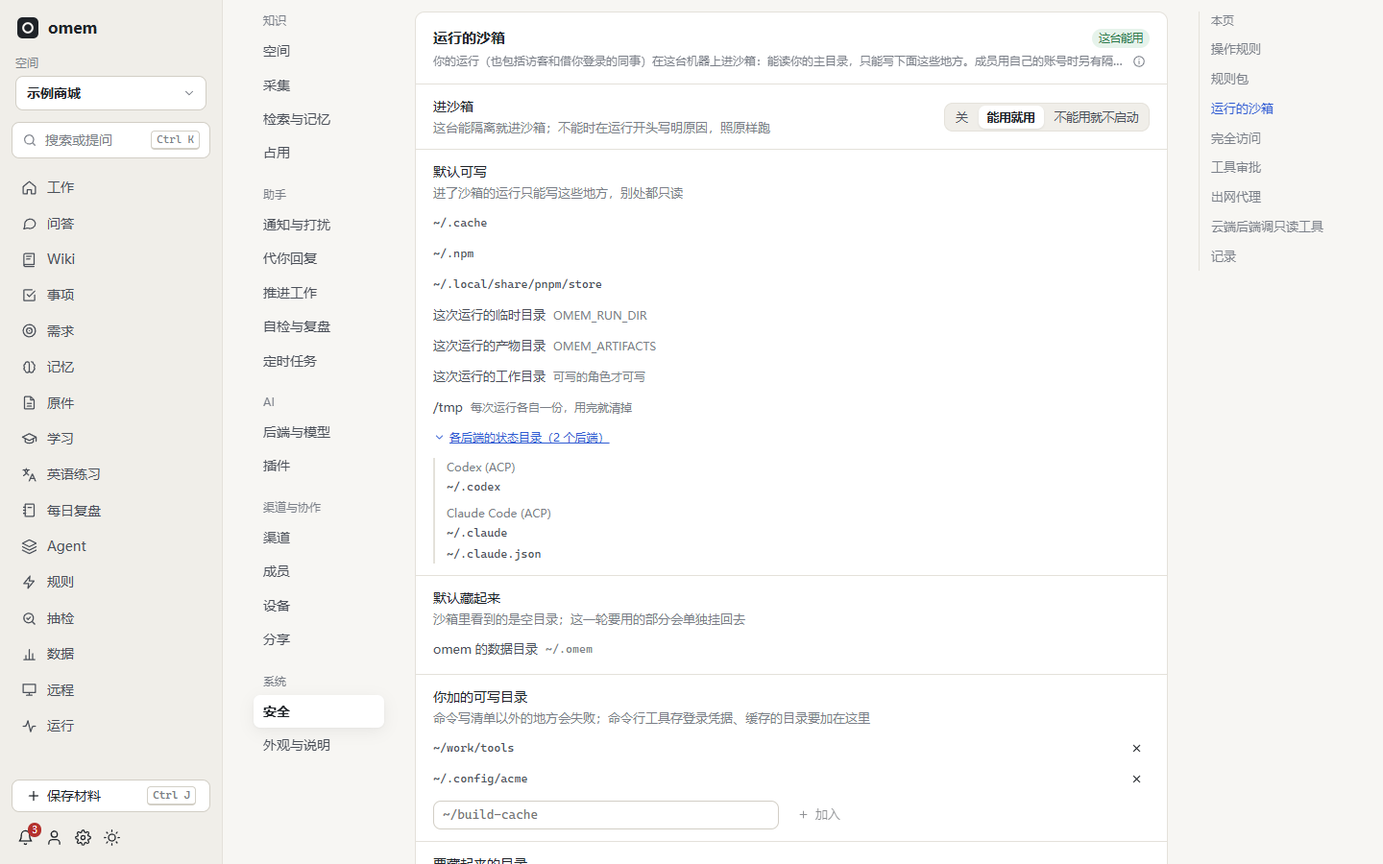
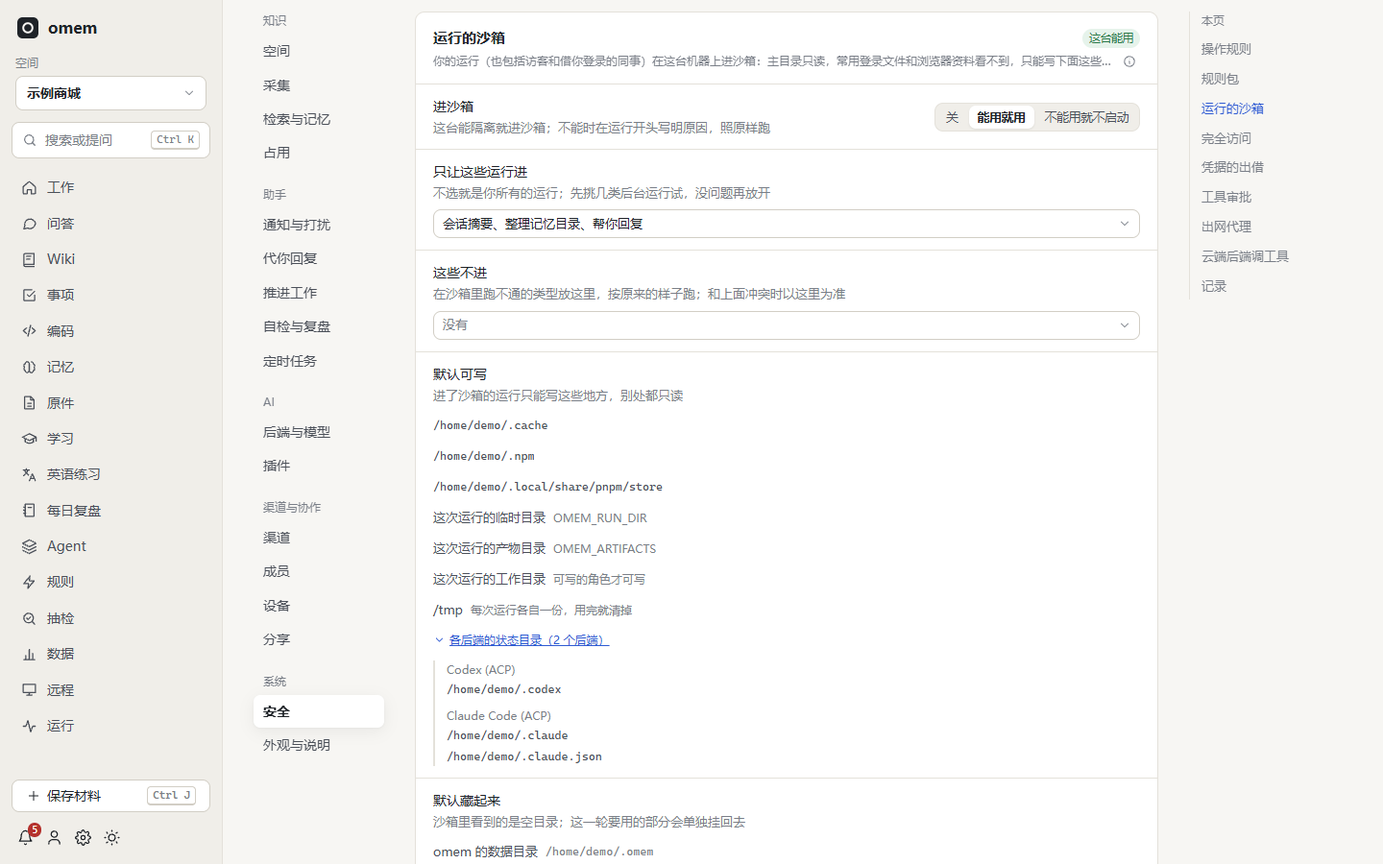
卡片预览画出 Markdown 表格；沙箱设置页跟上执行器
- card-preview 把 Markdown 表格换成每列 125px、每页 5 行的表格组件画，和客户端一样
  在手机上要横着滑（卡片搭建工具的手机视图核对过）；fold 里的明细写法写进 owner.md。
- 运行的沙箱卡：按运行类型挑进不进（includeKinds / excludeKinds），默认藏起来的分清
  数据目录和插件命令的登录，能展开看常用登录文件清单；帮助文字和操作规则卡的说明
  改成执行器之后的说法。重拍 settings-sandbox。
- canonical 在 Windows 上按盘符路径拆不存在的路径，演示数据给成员登录不再退出。

diff --git a/web/src/components/SandboxSettings.vue b/web/src/components/SandboxSettings.vue
@@ -3,7 +3,8 @@ import { computed, onMounted, ref } from "vue";
 import { get, put } from "../api";
 import { toast } from "../store";
 import { confirmDialog } from "../lib/dialog";
-import { FULL_ACCESS, MODES, defaultLabel, fullAccessNote, grantLinks, sandboxBody, splitDefaults, tilde, type FullAccessMode, type SandboxMode, type SandboxSettings, type SandboxStatus } from "../lib/sandbox";
+import { FULL_ACCESS, MODES, defaultLabel, fullAccessNote, grantLinks, hiddenLabel, kindOptions, sandboxBody, splitDefaults, tilde, type FullAccessMode, type SandboxMode, type SandboxSettings, type SandboxStatus } from "../lib/sandbox";
+import { runKindLabel } from "../store";
 import { settingsContext } from "../views/settings/ctx";
 import Icon from "./Icon.vue";
 import MonoLine from "./MonoLine.vue";
@@ -12,12 +13,14 @@ import SetCard from "./SetCard.vue";
 import SetRow from "./SetRow.vue";
 import Skeleton from "./Skeleton.vue";
 import UiSegmented from "./UiSegmented.vue";
+import UiSelect from "./UiSelect.vue";
 
 /**
  * 设置 → 安全 → 运行的沙箱 and 完全访问 (src/agents/own-run.ts `sandboxStatus`, own-sandbox.ts `runAccess`,
  * docs/v2/agent-accounts.md “本人的运行进沙箱”): whether the owner's runs on this machine go into a
- * sandbox that lets them read the home directory and write only the listed places, which directories
- * are added or hidden, and the one switch for turning off the backends' own sandbox and approvals.
+ * sandbox (the home directory read-only with login files hidden, writes only to the listed places, commands
+ * that need a login run by the executor outside it), which kinds of run go in, which directories are added
+ * or hidden, and the one switch for turning off the backends' own sandbox and approvals.
  * Only the owner; the whole setting is saved at once (`PUT /api/security/sandbox`). A server without it
  * (404) shows nothing.
  */
@@ -26,6 +29,7 @@ const status = ref<SandboxStatus | null>(null);
 const missing = ref(false);
 const error = ref("");
 const showState = ref(false);
+const showLogins = ref(false);
 const ctx = settingsContext();
 const backendName = (id: string) => ctx?.profiles.value.find((p) => p.id === id)?.name ?? id;
 
@@ -74,13 +78,17 @@ const grants = computed(() => grantLinks(status.value?.fullAccessGrants));
 const data = computed(() => status.value?.defaults.hidden[0] ?? null);
 const split = computed(() => (status.value ? splitDefaults(status.value) : { common: [], backends: [] }));
 const off = computed(() => status.value?.mode === "off");
+/** The login files and browser profiles hidden from runs: the owner's own list when set, else the built-in one. */
+const logins = computed(() => status.value?.loginPaths ?? status.value?.defaults.loginPaths ?? []);
+const kinds = computed(() => kindOptions(runKindLabel, [...(status.value?.includeKinds ?? []), ...(status.value?.excludeKinds ?? [])]));
+const kindNames = (list: string[]) => list.map((k) => runKindLabel[k] ?? k).join("、");
 const note = computed(() => (status.value ? fullAccessNote(status.value) : ""));
 </script>
 
 <template>
   <template v-if="!missing">
     <SetCard id="set-sandbox" title="运行的沙箱" :keys="KEYS">
-      <template #help>你的运行（也包括访客和借你登录的同事）在这台机器上进沙箱：能读你的主目录，只能写下面这些地方。成员用自己的账号时另有隔离；云端和借别的设备跑的不在这里。</template>
+      <template #help>你的运行（也包括访客和借你登录的同事）在这台机器上进沙箱：主目录只读，常用登录文件和浏览器资料看不到，只能写下面这些地方。要用登录的命令（操作规则保护的、凭据插件声明的、git 推拉、飞书命令行）在沙箱外的执行器里用这个身份的登录跑，运行拿不到登录文件本身。成员用自己的账号时另有隔离；云端和借别的设备跑的不在这里。</template>
       <template v-if="status" #aside>
         <span class="badge" :class="status.support.ok ? 'ok' : 'warn'" :title="status.support.version ? `bubblewrap ${status.support.version}` : status.support.reason ?? ''">{{ status.support.ok ? "这台能用" : "这台用不了" }}</span>
       </template>
@@ -90,6 +98,12 @@ const note = computed(() => (status.value ? fullAccessNote(status.value) : ""));
         <p v-if="!status.support.ok" class="set-pad small warn-text">{{ status.support.reason || "这台机器不能隔离运行" }}。这里选的模式先存着，在这台不生效。</p>
         <SetRow label="进沙箱" :hint="MODES.find((m) => m.value === status!.mode)?.hint">
           <UiSegmented :model-value="status.mode" size="sm" aria-label="本人的运行进不进沙箱" :options="MODES.map((m) => ({ value: m.value, label: m.label, title: m.hint }))" @change="(v) => save({ mode: v as SandboxMode }, `沙箱：${MODES.find((m) => m.value === v)?.label}`)" />
+        </SetRow>
+        <SetRow label="只让这些运行进" hint="不选就是你所有的运行；先挑几类后台运行试，没问题再放开" block :off="off">
+          <UiSelect :model-value="status.includeKinds ?? []" multiple size="sm" width="100%" aria-label="只让这些运行进沙箱" placeholder="全部" :options="kinds" @change="(v) => save({ includeKinds: v as string[] }, (v as string[]).length ? `只让这些进：${kindNames(v as string[])}` : '你所有的运行都进')" />
+        </SetRow>
+        <SetRow label="这些不进" hint="在沙箱里跑不通的类型放这里，按原来的样子跑；和上面冲突时以这里为准" block :off="off">
+          <UiSelect :model-value="status.excludeKinds ?? []" multiple size="sm" width="100%" aria-label="这些运行不进沙箱" placeholder="没有" :options="kinds" @change="(v) => save({ excludeKinds: v as string[] }, (v as string[]).length ? `这些不进：${kindNames(v as string[])}` : '不再排除哪一类')" />
         </SetRow>
         <SetRow label="默认可写" hint="进了沙箱的运行只能写这些地方，别处都只读" block :off="off">
           <ul class="sbx-list" aria-label="默认可写">
@@ -116,12 +130,20 @@ const note = computed(() => (status.value ? fullAccessNote(status.value) : ""));
         <SetRow label="默认藏起来" hint="沙箱里看到的是空目录；这一轮要用的部分会单独挂回去" block :off="off">
           <ul class="sbx-list" aria-label="默认藏起来">
             <li v-for="p in status.defaults.hidden" :key="p" class="sbx-line">
-              <span class="sbx-named">omem 的数据目录</span>
+              <span class="sbx-named">{{ hiddenLabel(p, data) }}</span>
               <span class="sbx-aside mono" :title="p">{{ tilde(p, home) }}</span>
             </li>
           </ul>
+          <div v-if="logins.length" class="sbx-fold">
+            <button type="button" class="lnk small" :aria-expanded="showLogins" aria-controls="sbx-logins" @click="showLogins = !showLogins">
+              <Icon :name="showLogins ? 'down' : 'right'" :size="13" />常用登录文件和浏览器资料（{{ logins.length }} 处{{ status.loginPaths ? "，按你配置的清单" : "" }}）
+            </button>
+            <div v-if="showLogins" id="sbx-logins" class="sbx-state">
+              <MonoLine v-for="p in logins" :key="p" :text="tilde(p, home)" />
+            </div>
+          </div>
         </SetRow>
-        <SetRow label="你加的可写目录" hint="命令写清单以外的地方会失败；命令行工具存登录凭据、缓存的目录要加在这里" block :off="off">
+        <SetRow label="你加的可写目录" hint="命令写清单以外的地方会失败；构建输出、工具缓存这类目录加在这里。命令行的登录由执行器用，不用加" block :off="off">
           <SandboxPaths :items="status.writable" :home="home" label="你加的可写目录" placeholder="~/build-cache" :save="listSaver('writable')" />
         </SetRow>
         <SetRow label="要藏起来的目录" hint="你主目录里不想让运行读到的，比如 ~/.ssh" block :off="off">

diff --git a/scripts/card-preview.ts b/scripts/card-preview.ts
@@ -11,11 +11,13 @@
  * fictional. CHROMIUM=path picks the browser, SCHEME=dark the dark theme.
  *
  * Where it differs from the Feishu client (checked 2026-11-27 against the card builder): an icon on a
- * Markdown element is not drawn; a Markdown table shows as raw `|` text (the client draws it); a column
- * set's grey background is left out; dropdowns are empty boxes; images show only as placeholders (no
- * img_key lookup); folds, forms and buttons are drawn but do nothing. HTML entities in Markdown (omem writes `:` as `&#58;`) are decoded
- * here, as the client does. The card builder (open.larkoffice.com/cardkit, “导入卡片”) is the closer
- * check when someone is signed in.
+ * Markdown element is not drawn; a column set's grey background is left out; dropdowns are empty boxes;
+ * images show only as placeholders (no img_key lookup); folds, forms and buttons are drawn but do
+ * nothing. Two things are put right before drawing, as the client shows them: HTML entities in Markdown
+ * (omem writes `:` as `&#58;`) are decoded, and a Markdown table, which this renderer leaves as raw `|`
+ * text, is drawn as a table component five rows a page, its columns as wide as the client's (on a
+ * phone the table scrolls sideways there; here the columns past the edge are cut off).
+ * The card builder (open.larkoffice.com/cardkit, “导入卡片”) is the closer check when someone is signed in.
  */
 import { mkdirSync, mkdtempSync, readFileSync, rmSync, writeFileSync } from "node:fs";
 import { tmpdir } from "node:os";
@@ -125,9 +127,57 @@ async function samples(): Promise<Record<string, Card>> {
   }
 }
 
-/** The client shows HTML entities in card Markdown as their characters (cardText writes `:` as `&#58;`). */
+/**
+ * A Markdown element's pipe tables as table components: the client draws a table in card Markdown
+ * (JSON 2.0: a grey header row, five data rows a page, at most four tables in one element) but the
+ * renderer here shows the raw `|` text. Null when the element has none.
+ */
+function withTables(el: Card): Card[] | null {
+  const lines = String(el.content).split("\n");
+  const cells = (l: string) => l.trim().replace(/^\|/, "").replace(/\|$/, "").split("|").map((c) => c.trim());
+  const rule = (l?: string) => !!l && /^\s*\|?\s*:?-{3,}:?\s*(\|\s*:?-{3,}:?\s*)*\|?\s*$/.test(l);
+  const { content: _, ...rest } = el;
+  const parts: Card[] = [];
+  let text: string[] = [];
+  const flush = () => {
+    if (text.join("").trim()) parts.push({ ...rest, content: text.join("\n").replace(/^\n+|\n+$/g, "") });
+    text = [];
+  };
+  for (let i = 0; i < lines.length; i++) {
+    if (!(lines[i].trim().startsWith("|") && rule(lines[i + 1]))) {
+      text.push(lines[i]);
+      continue;
+    }
+    const head = cells(lines[i]);
+    const rows: string[][] = [];
+    for (i += 2; i < lines.length && lines[i].trim().startsWith("|"); i++) rows.push(cells(lines[i]));
+    i--;
+    flush();
+    parts.push({
+      tag: "table",
+      page_size: 5,
+      row_height: "auto",
+      header_style: { text_align: "left", background_style: "grey", bold: true },
+      // The client gives a Markdown table's column about 125px and scrolls the table sideways on a phone.
+      columns: head.map((h, n) => ({ name: `c${n}`, display_name: h, data_type: "lark_md", width: "125px" })),
+      rows: rows.map((r) => Object.fromEntries(head.map((_, n) => [`c${n}`, r[n] ?? ""]))),
+    });
+  }
+  if (!parts.some((p) => p.tag === "table")) return null;
+  flush();
+  return parts;
+}
+
+/**
+ * The card as the client shows it, where the renderer here differs: HTML entities in Markdown are
+ * their characters (cardText writes `:` as `&#58;`), and Markdown tables are tables (`withTables`).
+ */
 function decoded(card: unknown): unknown {
-  if (Array.isArray(card)) return card.map(decoded);
+  if (Array.isArray(card))
+    return card.flatMap((x) => {
+      const d = decoded(x) as Card;
+      return d && typeof d === "object" && d.tag === "markdown" ? (withTables(d) ?? [d]) : [d];
+    });
   if (!card || typeof card !== "object") return card;
   const o = Object.fromEntries(Object.entries(card).map(([k, v]) => [k, decoded(v)]));
   if (o.tag === "markdown" && typeof o.content === "string") o.content = o.content.replace(/&#(\d+);/g, (_, n) => String.fromCodePoint(Number(n)));

diff --git a/web/src/lib/sandbox.ts b/web/src/lib/sandbox.ts
@@ -19,11 +19,20 @@ export type SandboxStatus = {
   support: { ok: boolean; bwrap?: string; version?: string; reason?: string };
   /** Each local backend profile and the directories (and files) it keeps its state in. */
   backends: { id: string; state: string[] }[];
-  defaults: { exampleBackend?: string; writable: string[]; hidden: string[] };
+  /**
+   * `hidden`: the data directory first, then the command state the trusted credential plugins declare.
+   * `loginPaths`: the built-in list of login files and browser profiles hidden from the Agent.
+   */
+  defaults: { exampleBackend?: string; writable: string[]; hidden: string[]; loginPaths?: string[] };
+  /** The owner's own list of login paths, replacing the built-in one (`[]`: none). */
+  loginPaths?: string[];
+  /** Only these run kinds go in (empty or absent: all); `excludeKinds` wins. */
+  includeKinds?: string[];
+  excludeKinds?: string[];
   visibility?: string;
   warning?: string;
 };
-export type SandboxSettings = { mode: SandboxMode; writable: string[]; hidden: string[]; fullAccess: FullAccessMode };
+export type SandboxSettings = { mode: SandboxMode; writable: string[]; hidden: string[]; fullAccess: FullAccessMode; includeKinds?: string[]; excludeKinds?: string[] };
 
 export const MODES: { value: SandboxMode; label: string; hint: string }[] = [
   { value: "off", label: "关", hint: "运行照原样在这台机器上跑，不进沙箱" },
@@ -112,4 +121,13 @@ export function fullAccessNote(s: Pick<SandboxStatus, "mode" | "fullAccess" | "s
   if (s.mode === "off") return "现在没有运行会进沙箱，这一档等于按角色。";
   if (!s.support.ok) return "这台机器隔离不了，没有运行会进沙箱，这一档在这台等于按角色。";
   return "";
+}
+
+/** A line of the default hidden list in the owner's words: the data directory, or a plugin command's login. */
+export const hiddenLabel = (path: string, data: string | null) => (path === data ? "omem 的数据目录" : "插件命令的登录");
+
+/** The run kinds to pick from: those the page has a name for, then any saved kind it has none for. */
+export function kindOptions(labels: Record<string, string>, saved: string[]): { value: string; label: string; hint?: string }[] {
+  const named = Object.entries(labels).map(([value, label]) => ({ value, label, hint: value }));
+  return [...named, ...saved.filter((k) => !Object.hasOwn(labels, k)).map((k) => ({ value: k, label: k }))];
 }

diff --git a/web/src/components/OperationRulesSettings.vue b/web/src/components/OperationRulesSettings.vue
@@ -269,7 +269,7 @@ function onPacksChanged() {
   <div class="stack">
     <SetCard id="set-operation-rules" title="操作规则">
       <template #help>
-        从上到下，第一条命中的规则生效；都没命中就放行。“放行”用来在更宽的规则前开个口子。命令规则能拦住 shell、脚本、Python 的 subprocess、Node 的 spawn 这类按名字找命令的调用；拦不住用绝对路径调用、Agent 自己改了 PATH、直接调命令背后的接口。它防的是误操作，不是有意绕开的 Agent：真正要保护的凭据不要放在 Agent 能读到的地方。保存后，之后新启动的 Agent 进程按新规则走。
+        从上到下，第一条命中的规则生效；都没命中就放行。“放行”用来在更宽的规则前开个口子。命令规则能拦住 shell、脚本、Python 的 subprocess、Node 的 spawn 这类按名字找命令的调用。没进沙箱的运行，用绝对路径调用、自己改 PATH、直接调命令背后的接口都拦不住，这时它只防误操作。进了<RouterLink to="/settings?card=sandbox">沙箱</RouterLink>的运行（Linux）里，受保护的命令在已知的安装位置都盖上了垫片，绝对路径和改过的 PATH 也落到垫片上；要用登录的命令在沙箱外的执行器里跑，运行读不到登录文件。沙箱里仍管不到的是运行自己装或复制进来的程序，它们只能用沙箱里看得到的文件和网络。保存后，之后新启动的 Agent 进程按新规则走。
         <template v-if="scopeChoices.platform === 'win32'">这台是 Windows：Node 不带 shell 的 execFile、Python 列表形式的 subprocess 只找 .exe，真正的命令是 .exe 时这两种拦不住。</template>
       </template>
       <template #aside><button class="btn ghost sm" :disabled="!drafts" @click="add"><Icon name="plus" :size="14" />规则</button></template>

diff --git a/scripts/doc-screens.ts b/scripts/doc-screens.ts
@@ -2251,10 +2251,11 @@ const shots: { name: string; path: string; width?: number; dark?: boolean; space
   { name: "settings-sandbox", path: "/settings?card=sandbox", before: async (p) => {
     const home = "/home/demo", data = `${home}/.omem`;
     await p.route("**/api/security/sandbox", (route) => route.request().method() !== "GET" ? route.fallback() : route.fulfill({ json: {
-      mode: "prefer", writable: [`${home}/work/tools`, `${home}/.config/acme`], hidden: [`${home}/.ssh`], fullAccess: "sandboxed",
+      mode: "prefer", writable: [`${home}/work/tools`, `${home}/.config/acme`], hidden: [`${home}/private`], fullAccess: "sandboxed", includeKinds: ["thread-summary", "memory-organize", "first-look"],
       support: { ok: true, bwrap: "/usr/bin/bwrap", version: "0.9.0" },
       backends: [{ id: "codex", state: [`${home}/.codex`] }, { id: "claude", state: [`${home}/.claude`, `${home}/.claude.json`] }],
-      defaults: { exampleBackend: "codex", writable: [`${home}/.codex`, `${home}/.cache`, `${home}/.npm`, `${home}/.local/share/pnpm/store`, `${data}/runs/example/scratch`, `${data}/artifacts/inbox/example`, `${data}/workspaces/example/1`, "/tmp"], hidden: [data] },
+      defaults: { exampleBackend: "codex", writable: [`${home}/.codex`, `${home}/.cache`, `${home}/.npm`, `${home}/.local/share/pnpm/store`, `${data}/runs/example/scratch`, `${data}/artifacts/inbox/example`, `${data}/workspaces/example/1`, "/tmp"], hidden: [data, `${home}/.config/acme-cli`],
+        loginPaths: ["~/.ssh", "~/.git-credentials", "~/.config/gh", "~/.lark-cli", "~/.aws", "~/.kube", "~/.docker/config.json", "~/.config/google-chrome", "~/.mozilla/firefox", "~/.npmrc", "/run/docker.sock"] },
     } }));
   }, prepare: async (p) => {
     await p.locator("#set-sandbox .sbx-line").first().waitFor();

diff --git a/test/web-sandbox.test.ts b/test/web-sandbox.test.ts
@@ -1,5 +1,5 @@
 import { describe, expect, it } from "vitest";
-import { checkPath, defaultLabel, fullAccessNote, grantLinks, sandboxBody, splitDefaults, tilde } from "../web/src/lib/sandbox.ts";
+import { checkPath, defaultLabel, fullAccessNote, grantLinks, hiddenLabel, kindOptions, sandboxBody, splitDefaults, tilde } from "../web/src/lib/sandbox.ts";
 
 const home = "/home/xiaowang";
 const data = `${home}/.omem`;
@@ -47,5 +47,15 @@ describe("the owner's sandbox (web/src/lib/sandbox.ts)", () => {
     expect(fullAccessNote({ mode: "prefer", fullAccess: "sandboxed", support: { ok: false } })).toContain("这台");
     expect(fullAccessNote({ mode: "prefer", fullAccess: "sandboxed", support: { ok: true } })).toBe("");
     expect(fullAccessNote({ mode: "off", fullAccess: "per-role", support: { ok: true } })).toBe("");
+  });
+
+  it("names the default hidden entries and lists run kinds with saved unknown ones last", () => {
+    expect(hiddenLabel(data, data)).toBe("omem 的数据目录");
+    expect(hiddenLabel(`${home}/.config/acme-cli`, data)).toBe("插件命令的登录");
+    const opts = kindOptions({ "thread-summary": "会话摘要", ask: "问答" }, ["ask", "new-kind"]);
+    expect(opts.map((o) => o.value)).toEqual(["thread-summary", "ask", "new-kind"]);
+    expect(opts[0]).toEqual({ value: "thread-summary", label: "会话摘要", hint: "thread-summary" });
+    expect(opts[2]).toEqual({ value: "new-kind", label: "new-kind" });
+    expect(kindOptions({ ask: "问答" }, ["toString"]).map((o) => o.value)).toEqual(["ask", "toString"]);
   });
 });

diff --git a/src/agents/own-sandbox.ts b/src/agents/own-sandbox.ts
@@ -1,6 +1,6 @@
 import { existsSync, realpathSync } from "node:fs";
 import { homedir } from "node:os";
-import { isAbsolute, posix } from "node:path";
+import { isAbsolute, posix, win32 } from "node:path";
 import type { Config } from "../core/config.ts";
 import { stripCommandLogin, installRoot, type SandboxNetwork, type WorkspaceMounts } from "./sandbox.ts";
 
@@ -10,8 +10,10 @@ export const under = (path: string, root: string) => path === root || path.start
 // Resolve existing parents too: a directory added later must not turn an alias into a broad grant.
 export function canonical(path: string): string {
   if (existsSync(path)) return realpathSync(path);
-  const parent = posix.dirname(path);
-  return parent === path ? path : posix.join(canonical(parent), posix.basename(path));
+  // A Windows drive path (a member's account folder on a Windows host) splits by its own rules; the sandbox's POSIX paths keep posix's.
+  const p = process.platform === "win32" && /^[A-Za-z]:[\\/]/.test(path) ? win32 : posix;
+  const parent = p.dirname(path);
+  return parent === path ? path : p.join(canonical(parent), p.basename(path));
 }
 
 export function normalizeSandbox(settings: Settings, home: string, data: string, real = canonical): Settings {

diff --git a/web/src/lib/operation-rules.ts b/web/src/lib/operation-rules.ts
@@ -56,7 +56,7 @@ export const KINDS: { value: Kind; label: string }[] = [
 export const kindLabel = (k: Kind) => KINDS.find((x) => x.value === k)?.label ?? k;
 /** Who applies a kind of rule, in the owner's words (operation-policy.ts `enforcedBy`). */
 export const ENFORCED: Record<Kind, string> = {
-  command: "Agent 和它的脚本经 PATH 执行命令时拦下来问；Agent 自己来请求许可时也按它判断",
+  command: "Agent 和它的脚本经 PATH 执行命令时拦下来问，进了沙箱的运行用绝对路径调用也一样；Agent 自己来请求许可时也按它判断",
   file: "Agent 自己来请求读写文件的许可时按它判断",
   tool: "Agent 调用 omem 工具时按它判断",
   http: "Agent 用 aad 操作的浏览器里，页面的请求发出前拦下来问（要带请求闸门的 aad 版本）；不经这个浏览器发出的请求管不到",

diff --git a/docs/v2/status.md b/docs/v2/status.md
@@ -429,7 +429,7 @@
 | 一件事的归属位置：运行链根上的 `output.home`；唤醒、协调回复、编码汇报按它投递；本人回复这件事的消息或在别处用写工具操作它即迁移；只引用这件事自己的上一条消息 | 已实现；2026-11-11 | `src/agents/home.ts`、`wakes.ts`、`jobs.ts`、`channels/lark-bot.ts` |
 | 选型、换后端顺序与记录：决策模型排出整个顺序，没经过选型的运行第一次要换时问一次（缓存 10 分钟）；`choice` / `failover` 记录；上游流中断、TLS 建连前断开算故障并按模型冷却；`stay_quiet` 后收尾报错按完成；`pinnedFallback`；按模型的每日额度 | 已实现；2026-11-11，决策模型排序效果和后端的每日额度文本真机待验 | `choose-ai.ts`、`runner.ts`、`capacity.ts`、`sessions.ts`、`acp.ts`、`probe.ts` |
 | 文档变化规则：电子表格逐行比对、多维表格按记录、发到群、回写不自触发、条件 chat.id=current、规则所属空间可改并带走工作文件 | 已实现；2026-11-11，飞书接口字段待真机核对 | `channels/lark-doc-events.ts`、`rules/own-writes.ts`、`rules/store.ts`、`sources/work.ts` |
-| Linux 本人登录沙箱与完全访问 | 执行器共享本轮授权的额外工作目录。npm 源设置通过去除认证项的只读快照保留。默认遮住常见登录文件和 SSH agent 套接字，插件声明的命令状态在 Agent 内遮住。后端和命令共用登录目录的插件可注册。Linux 本人或成员启动沙箱时若状态目录相同或互为父子，会提示分开供给或更换后端，prefer 也会拒绝。可用 includeKinds 逐类启用本人沙箱，excludeKinds 优先。飞书 CLI 内置登录目录供执行器读取和续签。四种常用浏览器的默认资料目录在 Agent 内遮住。本人沙箱可在 all-sandboxed 模式经出网代理访问网络。Linux 同身份命令通过一次性许可在独立沙箱使用凭据，保留管道和退出码。执行器按标准命令或插件的 `loginEnv` 声明恢复登录变量，成员只取自己的账号环境。Git 的 `remote update` 和 `submodule update --remote` 与 fetch 共用执行许可和审计。 本机支持 off/prefer/require，工作区按角色挂载，工作目录为 `/tmp` 时使用本轮私有临时目录。交办评审显式授权只读原树，成员独立账号也能读取池中和直接检出的仓库，在本轮私有快照里运行测试。启动参数、运行状态与每轮发送的任务正文共用挂载计划，多仓库工作树和产物目录在准备运行时加入，隐藏与只读规则优先；设置示例与实际运行均校验状态路径的类型，缺失的目录首次启动时创建，可选状态文件只在存在时挂载。API 档案沿用基础后端的目录布局。完全访问按角色、已隔离或本人可写角色统一选择。豆包 CLI 的普通运行、短问答和复盘评判共用准备阶段的独立审批模式，交办的档位预估与首轮计划细化沿用发起人的账号和只读权限，豆包启动时在对应运行记录实际审批方式，覆盖主助手代答、回退会话与复盘子运行，未隔离访客沿用风险审批；ACP 写权限独立计算。本人安全接口在合并磁盘改动后、写盘前校验示例，用同一份配置返回状态。网页（2026-11-22）：设置 → 安全 的“运行的沙箱”和“完全访问”两张卡（`web/src/components/SandboxSettings.vue`、`SandboxPaths.vue`、`web/src/lib/sandbox.ts`）：这台能不能用、三档模式、默认可写（各后端状态目录收在展开里）和藏起来的、可增删的两个目录清单（拒绝原因写在那一行下面）、完全访问三档（“全部开”先确认，保存带 `confirmAll`；沙箱关时选“进了沙箱的都开”提示等于按角色）、单独开着的去 Agent 页 / 规则页 / 访客看。“可用”的样子只用接口桩看过（截图 `settings-sandbox`）；Windows 上这个接口读和存都报“目录需要绝对路径或 ~/ 开头的路径”，卡片只显示可重试的错误，真 Linux 上没走过。 | `src/agents/own-run.ts`、`src/agents/own-sandbox.ts`、`test/own-sandbox-linux.test.ts`、`test/own-run.test.ts`、`test/workspace-mounts.test.ts` |
+| Linux 本人登录沙箱与完全访问 | 执行器共享本轮授权的额外工作目录。npm 源设置通过去除认证项的只读快照保留。默认遮住常见登录文件和 SSH agent 套接字，插件声明的命令状态在 Agent 内遮住。后端和命令共用登录目录的插件可注册。Linux 本人或成员启动沙箱时若状态目录相同或互为父子，会提示分开供给或更换后端，prefer 也会拒绝。可用 includeKinds 逐类启用本人沙箱，excludeKinds 优先。飞书 CLI 内置登录目录供执行器读取和续签。四种常用浏览器的默认资料目录在 Agent 内遮住。本人沙箱可在 all-sandboxed 模式经出网代理访问网络。Linux 同身份命令通过一次性许可在独立沙箱使用凭据，保留管道和退出码。执行器按标准命令或插件的 `loginEnv` 声明恢复登录变量，成员只取自己的账号环境。Git 的 `remote update` 和 `submodule update --remote` 与 fetch 共用执行许可和审计。 本机支持 off/prefer/require，工作区按角色挂载，工作目录为 `/tmp` 时使用本轮私有临时目录。交办评审显式授权只读原树，成员独立账号也能读取池中和直接检出的仓库，在本轮私有快照里运行测试。启动参数、运行状态与每轮发送的任务正文共用挂载计划，多仓库工作树和产物目录在准备运行时加入，隐藏与只读规则优先；设置示例与实际运行均校验状态路径的类型，缺失的目录首次启动时创建，可选状态文件只在存在时挂载。API 档案沿用基础后端的目录布局。完全访问按角色、已隔离或本人可写角色统一选择。豆包 CLI 的普通运行、短问答和复盘评判共用准备阶段的独立审批模式，交办的档位预估与首轮计划细化沿用发起人的账号和只读权限，豆包启动时在对应运行记录实际审批方式，覆盖主助手代答、回退会话与复盘子运行，未隔离访客沿用风险审批；ACP 写权限独立计算。本人安全接口在合并磁盘改动后、写盘前校验示例，用同一份配置返回状态。网页（2026-11-22）：设置 → 安全 的“运行的沙箱”和“完全访问”两张卡（`web/src/components/SandboxSettings.vue`、`SandboxPaths.vue`、`web/src/lib/sandbox.ts`）：这台能不能用、三档模式、默认可写（各后端状态目录收在展开里）和藏起来的、可增删的两个目录清单（拒绝原因写在那一行下面）、完全访问三档（“全部开”先确认，保存带 `confirmAll`；沙箱关时选“进了沙箱的都开”提示等于按角色）、单独开着的去 Agent 页 / 规则页 / 访客看；2026-11-28 加了按运行类型挑进不进（`includeKinds` / `excludeKinds` 两个多选），默认藏起来的分清数据目录和插件命令的登录，并能展开看常用登录文件清单（`defaults.loginPaths` 或配置的 `loginPaths`），帮助文字改成执行器之后的说法（操作规则卡也写明沙箱里绝对路径、改 PATH 落到垫片上）。“可用”的样子只用接口桩看过（截图 `settings-sandbox`）；Windows 上这个接口读和存都报“目录需要绝对路径或 ~/ 开头的路径”，卡片只显示可重试的错误，真 Linux 上没走过。 | `src/agents/own-run.ts`、`src/agents/own-sandbox.ts`、`test/own-sandbox-linux.test.ts`、`test/own-run.test.ts`、`test/workspace-mounts.test.ts` |
 | Linux 成员沙箱出网代理 | 状态记录带运行标题；操作规则在列表为空时也返回本机的 HTTP 执行点。严格运行默认断开直连，HTTP 和 CONNECT 复用操作规则。指定域名可解密检查路径。本人从 `/api/security/egress` 查本机能力和连接记录。网页：设置 → 安全 的“出网代理”（`web/src/components/EgressSettings.vue`；连接记录只用演示桩看过）。 | `src/agents/egress-run.ts`、`test/egress-proxy.test.ts`、`test/egress-sandbox.test.ts` |
 | 操作规则与审批（命令、ACP、omem 工具、HTTP） | 第一期；2026-11-23：PATH 目录与垫片文件按真实路径判等，排除符号链接别名，避免把垫片误当真实命令而递归启动；目录别名和文件别名回归通过。ACP 与命令垫片共用同一条命令的一次批准。工具的 log 保留每次询问和做完告知。覆盖字段、审批范围和执行边界见 [操作规则与审批](command-gate.md)。HTTP 规则的判定入口 `/api/operation-gate/http`（`src/agents/http-gate.ts`：要问的范围、单个请求的决定，和命令共用审批与授权）已有，执行点在 aad 驱动的浏览器里，aad 那一侧（请求闸门）在做，两边还没有连起来跑过。网页 设置 → 安全 能管全部四种规则和规则包（启用选范围、看差异后换新版、停用），同页的“记录”按时间列出规则的判定和批准、以本人身份发出的内容、成员和登录的变动（`src/auth/audit-view.ts`、`GET /api/security/audit`、`web/src/components/AuditTrail.vue`；只在演示数据和测试上看过） | `src/agents/operation-policy.ts`、`src/agents/command-gate.ts`、`/api/security/operation-rules`、`web/src/components/OperationRulesSettings.vue` |
 | 主线程卡顿监测（diag 的 eventLoop）；向量变更记录与量化快照；网络 git 异步 | 已实现；2026-11-11 | `core/loop-monitor.ts`、`search/vectors.ts`、`core/git.ts` |

diff --git a/docs/v2/lark-cards.md b/docs/v2/lark-cards.md
@@ -49,7 +49,7 @@ Agent 不写卡片 JSON。它交出组件块，只做几个判断：这条结论
 
 按飞书卡片 2.0 的文档核对过，写组件时要守住的：
 
-- `table` 只能放在 body 最外层。分栏、交互容器、表单、折叠面板里放表格会被拒；这些位置要表格时写 Markdown 表格。
+- `table` 只能放在 body 最外层。分栏、交互容器、表单、折叠面板里放表格会被拒；这些位置要表格时写 Markdown 表格（JSON 2.0 才画成表格：每页 5 行带翻页，一个 Markdown 元素最多 4 个表格，不能设列宽）。2026-11-28 在卡片搭建工具的手机视图里看过：Markdown 表格每列约 125px，四列的表格在手机上只露出前两列多一点，其余横着滑，所以 fold 里的明细宜一项一行写或只留两三列（`skills/omem/references/owner.md` 的 `fold`）。
 - 分栏的 `column` 能设 `background_style`（飞书 7.9 起），但没有圆角；要圆角的块用 `interactive_container`，不能点的写 `behaviors: []`。
 - `markdown` 元素可以带 `icon`（图标库的 `standard_icon`），不用先上传图片；要用自己的图片做图标，得先上传拿到 `img_key`，这里没有做。
 - 卡片大小有上限（约 30 KB），所以表格、图表每张卡各最多 5 个，多的写成文字。
@@ -59,7 +59,7 @@ Agent 不写卡片 JSON。它交出组件块，只做几个判断：这条结论
 
 飞书没有离线渲染卡片 JSON 的接口或组件（2026-11-27 调研）。能用的：
 
-- **`node scripts/card-preview.ts [目录]`**（不用登录）：用真实的卡片代码在临时数据目录里生成样例卡片（阶段卡、回答后的阶段卡、方案确认、批准、提问、展示块、表单），用开发依赖 open-feishu-card（照网页版飞书的渲染规则写的第三方渲染器，MIT）按电脑 520px 和手机 340px 宽度画出来截图；`--json=文件` 画任意一张卡，`--site` 重画文档站的 `lark-card-*` 截图。和卡片搭建工具对照过：卡片头的状态标签、浅灰底的结论块、Markdown 里的彩色标签、按钮、折叠面板都一致；Markdown 元素上的图标不画，分栏的 `grey-50` 底色不画，Markdown 里的表格画成原样的竖线文字（客户端会画成表格），下拉框画成空框，图片只有占位。Markdown 里的 HTML 实体（`cardText` 把 `:` 写成 `&#58;`）按客户端的样子先解码。另一个开源渲染器 feishu-card-renderer（React）不画卡片头的标签、容器底色和图标，没有用。
+- **`node scripts/card-preview.ts [目录]`**（不用登录）：用真实的卡片代码在临时数据目录里生成样例卡片（阶段卡、回答后的阶段卡、方案确认、批准、提问、展示块、表单），用开发依赖 open-feishu-card（照网页版飞书的渲染规则写的第三方渲染器，MIT）按电脑 520px 和手机 340px 宽度画出来截图；`--json=文件` 画任意一张卡，`--site` 重画文档站的 `lark-card-*` 截图。和卡片搭建工具对照过：卡片头的状态标签、浅灰底的结论块、Markdown 里的彩色标签、按钮、折叠面板都一致；Markdown 元素上的图标不画，分栏的 `grey-50` 底色不画，下拉框画成空框，图片只有占位。画之前按客户端的样子改两处：Markdown 里的 HTML 实体（`cardText` 把 `:` 写成 `&#58;`）先解码；Markdown 表格（这个渲染器画成原样的竖线文字）换成每列 125px、每页 5 行的表格组件，手机宽度下和客户端一样要横着滑。另一个开源渲染器 feishu-card-renderer（React）不画卡片头的标签、容器底色和图标，没有用。
 
 - **卡片搭建工具**（open.larkoffice.com/cardkit，要登录）：编辑器“导入卡片”收 `{"name": …, "dsl": <卡片 JSON 2.0>, "variables": []}` 格式的 `.card` / `.json` 文件，导入进当前卡片后画布按飞书客户端的样子画出来，能切桌面和手机。直接导入裸的卡片 JSON 会变成一张空的旧版卡片。搭建工具没有折叠面板组件，导入时 `collapsible_panel` 会被丢掉，折叠面板要在客户端里看。
 - **建卡片实体接口**（`POST /open-apis/cardkit/v1/cards`，`type: card_json`）只校验 JSON，不发消息、不出图。

diff --git a/docs/v2/acceptance.md b/docs/v2/acceptance.md
@@ -324,7 +324,7 @@
 
 13. 分别通过普通角色、主助手群内代答、会话回退到豆包和双序复盘启动豆包 CLI。每次启动应在对应运行写入一条「使用 AI」状态，档位与替身收到的 `--permission-mode` 一致。`ask_risky` 显示「风险审批」，`always_allow` 显示「完全访问」。
 
-14. 网页（设置 → 安全 → 运行的沙箱、完全访问）：本人打开，标题旁写这台能不能用；不能用时写原因和“模式先存着，在这台不生效”。三档模式、三档完全访问各点一次，刷新后还在；选“全部开”先弹确认，取消不改，确认后请求带 `confirmAll: true`；沙箱“关”时选“进了沙箱的都开”，卡片写“这一档等于按角色”。在“你加的可写目录”加 `~/work/tools`（已建好）应保存并显示成 `~/work/tools`；加 `work/x` 不发请求，那一行下面写要绝对路径；加一个不存在的绝对路径，服务端的原因写在那一行下面；去掉一项立即保存。“各后端的状态目录”展开后按后端列出。成员（演示的小林）看不到这两张卡。1440 / 390 无横向溢出，键盘能切换三档和增删目录。2026-11-22：交互在演示服务上用接口桩走过（演示服务在 Windows 上，真接口读和存都报“目录需要绝对路径或 ~/ 开头的路径”，卡片显示可重试的错误）；没有在 Linux 真接口上走过。
+14. 网页（设置 → 安全 → 运行的沙箱、完全访问）：本人打开，标题旁写这台能不能用；不能用时写原因和“模式先存着，在这台不生效”。三档模式、三档完全访问各点一次，刷新后还在；选“全部开”先弹确认，取消不改，确认后请求带 `confirmAll: true`；沙箱“关”时选“进了沙箱的都开”，卡片写“这一档等于按角色”。在“你加的可写目录”加 `~/work/tools`（已建好）应保存并显示成 `~/work/tools`；加 `work/x` 不发请求，那一行下面写要绝对路径；加一个不存在的绝对路径，服务端的原因写在那一行下面；去掉一项立即保存。“各后端的状态目录”展开后按后端列出。“只让这些运行进”选两类后刷新还在，提示里写出类型名，清空后提示“你所有的运行都进”；“这些不进”同样能选能清。“默认藏起来”里数据目录写“omem 的数据目录”，凭据插件声明的命令状态写“插件命令的登录”；“常用登录文件和浏览器资料”展开后列出内置清单（配置了 `loginPaths` 时标“按你配置的清单”）。成员（演示的小林）看不到这两张卡。1440 / 390 无横向溢出，键盘能切换三档和增删目录。2026-11-22：交互在演示服务上用接口桩走过（演示服务在 Windows 上，真接口读和存都报“目录需要绝对路径或 ~/ 开头的路径”，卡片显示可重试的错误）；没有在 Linux 真接口上走过。
 
 15. 在 `all-sandboxed` 模式下启动本人沙箱，直接访问测试服务失败，同一 URL 经代理按规则放行。切回 `strict-only` 后本人运行沿用原网络。
 
